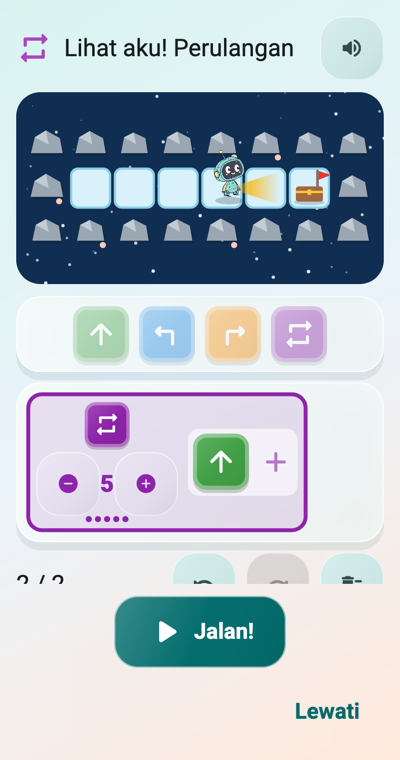
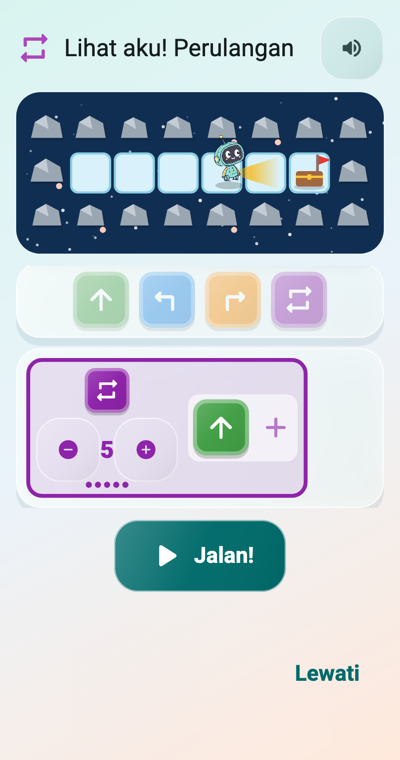
fix(tutorial): nothing jumps when the demo ends
The demo's Go, only for show, fades away in place, and the end buttons
keep their room hidden during the demo (not tappable), so the world and
blocks stay put when "Watch again" appears.

diff --git a/lib/features/tutorial/view/tutorial_view.dart b/lib/features/tutorial/view/tutorial_view.dart
@@ -175,31 +175,37 @@ class _TutorialViewState extends State<TutorialView> {
       borderRadius: BorderRadius.circular(24),
       child: GameWidget(key: ValueKey(_game), game: _game),
     );
-    final go = Stack(
-      clipBehavior: Clip.none,
-      alignment: Alignment.center,
-      children: [
-        AnimatedScale(
-          scale: _pressingGo ? 0.92 : 1,
-          duration: const Duration(milliseconds: 150),
-          child: FilledButton.icon(
-            onPressed: () {},
-            icon: const Icon(Icons.play_arrow_rounded, size: 40),
-            label: Text(l10n.run),
-          ),
-        ),
-        if (_pressingGo)
-          const Positioned(
-            right: -6,
-            bottom: -22,
-            child: Icon(
-              Icons.touch_app_rounded,
-              size: 48,
-              color: Colors.white,
-              shadows: [Shadow(blurRadius: 6, color: Colors.black54)],
+    // The demo's Go is only for show: it fades once the demo is over, so it
+    // doesn't look like a button to press, and keeps its place.
+    final go = AnimatedOpacity(
+      opacity: _finished ? 0 : 1,
+      duration: const Duration(milliseconds: 250),
+      child: Stack(
+        clipBehavior: Clip.none,
+        alignment: Alignment.center,
+        children: [
+          AnimatedScale(
+            scale: _pressingGo ? 0.92 : 1,
+            duration: const Duration(milliseconds: 150),
+            child: FilledButton.icon(
+              onPressed: () {},
+              icon: const Icon(Icons.play_arrow_rounded, size: 40),
+              label: Text(l10n.run),
             ),
           ),
-      ],
+          if (_pressingGo)
+            const Positioned(
+              right: -6,
+              bottom: -22,
+              child: Icon(
+                Icons.touch_app_rounded,
+                size: 48,
+                color: Colors.white,
+                shadows: [Shadow(blurRadius: 6, color: Colors.black54)],
+              ),
+            ),
+        ],
+      ),
     );
     Widget editorFor({required bool fit}) => BlocProvider.value(
       value: _blocks,
@@ -215,8 +221,18 @@ class _TutorialViewState extends State<TutorialView> {
       ),
     );
     final editor = editorFor(fit: false);
-    final buttons = _finished
-        ? Wrap(
+    // The end buttons always take their room, hidden while the demo plays
+    // (with Skip over them), so nothing moves when they appear.
+    final buttons = Stack(
+      alignment: Alignment.center,
+      children: [
+        // Keeps their size only: not tappable or read out while hidden.
+        Visibility(
+          visible: _finished,
+          maintainState: true,
+          maintainAnimation: true,
+          maintainSize: true,
+          child: Wrap(
             alignment: WrapAlignment.center,
             spacing: 12,
             runSpacing: 12,
@@ -232,14 +248,18 @@ class _TutorialViewState extends State<TutorialView> {
                 label: Text(widget.doneLabel ?? l10n.tutorialLetsPlay),
               ),
             ],
-          )
-        : Align(
+          ),
+        ),
+        if (!_finished)
+          Align(
             alignment: Alignment.centerRight,
             child: TextButton(
               onPressed: widget.onDone,
               child: Text(l10n.tutorialSkip),
             ),
-          );
+          ),
+      ],
+    );
     return Scaffold(
       body: SafeArea(
         child: Padding(

diff --git a/test/features/tutorial/tutorial_view_test.dart b/test/features/tutorial/tutorial_view_test.dart
@@ -8,6 +8,7 @@ import 'package:cobalagi/features/editors/blocks/data/block.dart';
 import 'package:cobalagi/features/editors/blocks/view/block_editor.dart';
 import 'package:cobalagi/features/tutorial/data/tutorial.dart';
 import 'package:cobalagi/features/tutorial/view/tutorial_view.dart';
+import 'package:flame/game.dart';
 import 'package:flutter/material.dart';
 import 'package:flutter_bloc/flutter_bloc.dart';
 import 'package:flutter_test/flutter_test.dart';
@@ -111,6 +112,35 @@ void main() {
     expect(tester.takeException(), isNull);
   });
 
+  for (final size in const [Size(1280, 800), Size(412, 915)]) {
+    testWidgets('the end of the demo moves nothing ($size)', (tester) async {
+      await _pump(tester, _tutorials['variables']!, onDone: () {});
+      tester.view.physicalSize = size;
+      await tester.pump(const Duration(seconds: 1));
+      Rect world() =>
+          tester.getRect(find.byWidgetPredicate((w) => w is GameWidget).first);
+      Rect editor() => tester.getRect(find.byType(BlockEditor).first);
+      final worldBefore = world();
+      final editorBefore = editor();
+      // The end buttons wait hidden: they can't be tapped yet.
+      expect(find.text("Let's play!").hitTestable(), findsNothing);
+      await _watch(tester);
+      expect(find.text("Let's play!").hitTestable(), findsOneWidget);
+      expect(world(), worldBefore);
+      // The editor grows with the demo's blocks, but stays where it was.
+      expect(editor().topLeft, editorBefore.topLeft);
+      // The demo's Go, only for show, has faded away.
+      final go = tester.widget<AnimatedOpacity>(
+        find.ancestor(
+          of: find.text('Go!'),
+          matching: find.byType(AnimatedOpacity),
+        ),
+      );
+      expect(go.opacity, 0);
+      expect(tester.takeException(), isNull);
+    });
+  }
+
   testWidgets('skip leaves at once', (tester) async {
     var done = 0;
     await _pump(tester, _tutorials['directions']!, onDone: () => done++);
@@ -122,7 +152,7 @@ void main() {
     expect(tester.takeException(), isNull);
   });
 
-  testWidgets('leaving while the friend walks ends quietly', (tester) async {
+  testWidgets('leaving while the robot rolls ends quietly', (tester) async {
     await _pump(tester, _tutorials['loops']!, onDone: () {});
     // Long enough for the hand to press Go, not for the walk to end.
     for (var i = 0; i < 70; i++) {
